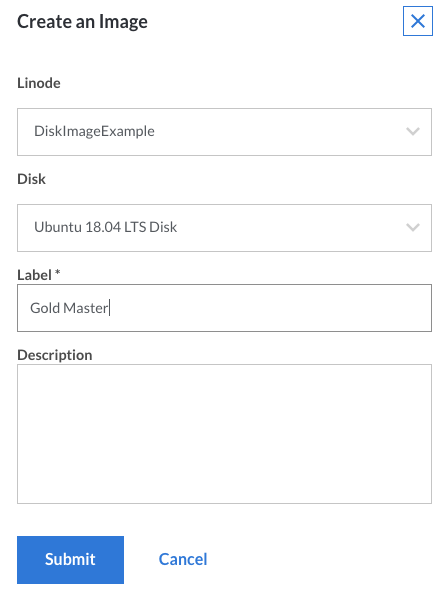
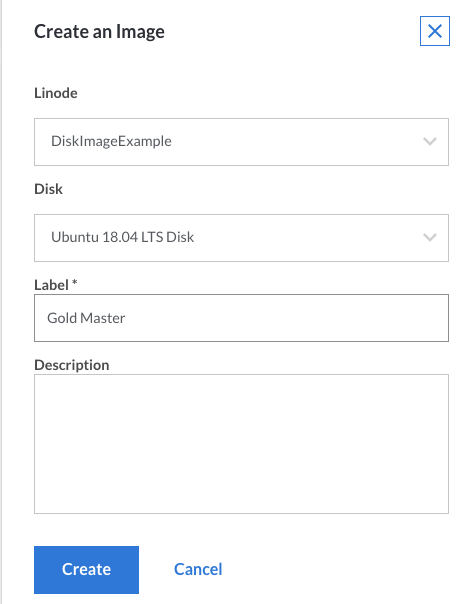
Updated screenshot and copy

diff --git a/docs/platform/disk-images/linode-images-new-manager/index.md b/docs/platform/disk-images/linode-images-new-manager/index.md
@@ -38,7 +38,7 @@ While an image can be captured while your Linode is running, we would recommend 
 
     ![Create an Image menu](images-create-image-menu.png "Create an Image menu.")
 
-3.  Once you click the **Submit** button, your image will be frozen for later use. You can view the progress under the bell notifications at the top of the page.
+3.  Once you click the **Create** button, your image will be frozen for later use. You can view the progress under the bell notifications at the top of the page.
 
     ![Image creation status under the bell notifications.](images-image-being-created.png "Image creation status under the bell notifications.")
 
